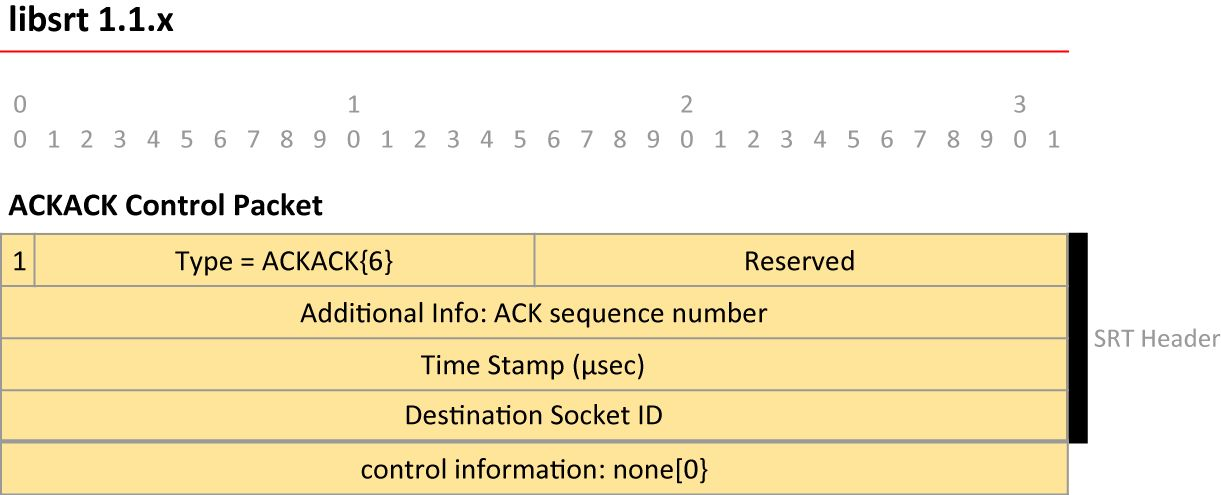
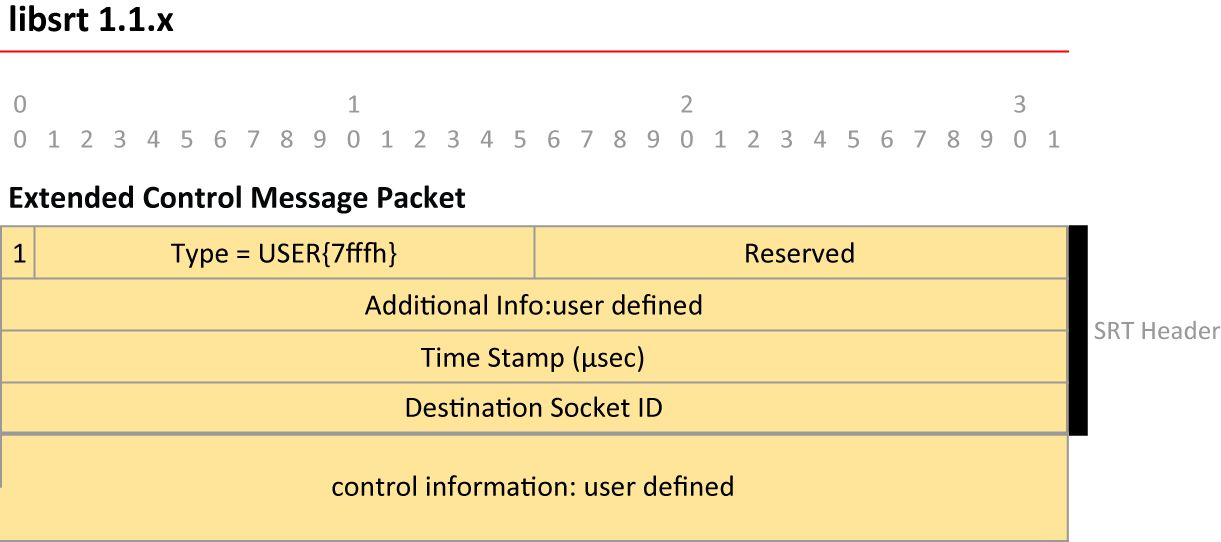
完成数据包一章

diff --git a/PACKET_STRUCTURE.md b/PACKET_STRUCTURE.md
@@ -72,15 +72,73 @@ For Control packets the first two fields are interpreted respectively (using net
     | 0x7FFF | 3 | SRT_KMREQ: Encryption Keying Material Request |
     | 0x7FFF | 4 | SRT_KMRSP: Encryption Keying Material Response |
 
-    The Extended Message mechanism is theoretically open for further extensions. SRT uses some of them for its own purposes. This will be referred to later in the section on the SRT Extended Handshake. 理论上，扩展消息机制对进一步扩展是开放的。SRT 将其中一些用于自己的目的。 稍后将在“SRT 扩展握手”部分中对此进行介绍。
+    The Extended Message mechanism is theoretically open for further extensions. SRT uses some of them for its own purposes. This will be referred to later in the section on the SRT Extended Handshake. 
+    
+    理论上，扩展消息机制对进一步扩展是开放的。SRT 将其中一些用于自己的目的。 稍后将在“SRT 扩展握手”部分中对此进行介绍。
 
 * Word 1:
     * Additional info — used in some control messages as extra space for data. Its interpretation depends on the particular message type. Handshake messages don‘t use it. 其他信息，在某些控制消息中用作额外的数据空间。其解释取决于特定的消息类型。握手消息不使用它。
 
+## Handshake Packets **握手数据包**
 
+Handshake control packets (“packet type” bit = 1) are used to establish a connection between two peers in a point-to-point SRT session. Original versions of SRT relied on handshake extensions to exchange certain parameters immediately after a connection was opened, but as of version 1.3 an integrated mechanism ensures all parameters are exchanged as part of the handshake itself. Refer to the Handshake section later in this document for details.
 
+握手控制数据包（“包类型”位 = 1）用于在点对点 SRT 会话中的两个对等点之间建立连接。SRT 的原始版本依靠握手扩展来在打开连接后立即交换某些参数，但是从版本 1.3 开始，集成机制确保所有参数都作为握手本身的一部分进行交换。有关详细信息，请参阅本文档后面的“握手”部分。
 
+![PACKET_STRUCTURE_3](./Resources/PACKET_STRUCTURE/PACKET_STRUCTURE_3.jpg)
 
+## KM Error Response Packets **关键消息错误响应数据包**
 
+Key Message Error Response control packets (“packet type” bit = 1) are used to exchange error status messages between peers. Refer to the Encryption section later in this document for details.
 
+关键消息错误响应控制数据包（“包类型”位 = 1）用于在同级之间交换错误状态消息。有关详细信息，请参阅本文档后面的加密部分。
 
+![PACKET_STRUCTURE_4](./Resources/PACKET_STRUCTURE/PACKET_STRUCTURE_4.jpg)
+
+## ACK Packets **确认包**
+
+Acknowledgement (ACK) control packets (“packet type” bit = 1) are used to provide data packet delivery status and RTT information. Refer to the SRT Data Transmission and Control section later in this document for details.
+
+确认（ACK）控制包（“包类型”位 = 1）用于提供数据包传递状态和 RTT 信息。有关详细信息，请参阅本文档后面的 SRT 数据传输和控制部分。
+
+![PACKET_STRUCTURE_5](./Resources/PACKET_STRUCTURE/PACKET_STRUCTURE_5.jpg)
+
+## Keep-alive Packets **心跳包**
+
+Keep-alive control packets (“packet type” bit = 1) are exchanged approximately every 10 ms to enable SRT streams to be automatically restored after a connection loss.
+
+心跳控制包（“包类型”位 = 1）大约每 10 毫秒交换一次，以使 SRT 流在连接断开后能够自动恢复。
+
+![PACKET_STRUCTURE_6](./Resources/PACKET_STRUCTURE/PACKET_STRUCTURE_6.jpg)
+
+## NAK Control Packets **否定确认包**
+
+Negative acknowledgement (NAK) control packets (“packet type” bit = 1) are used to signal failed data packet deliveries. Refer to the SRT Data Transmission and Control section later in this document for details.
+
+否定确认（NAK）控制包（“包类型”位 = 1）用于发信号通知失败的数据包传递。有关详细信息，请参阅本文档后面的 SRT 数据传输和控制部分。
+
+![PACKET_STRUCTURE_7](./Resources/PACKET_STRUCTURE/PACKET_STRUCTURE_7.jpg)
+
+## SHUTDOWN Control Packets **关闭控制包**
+
+Shutdown control packets (“packet type” bit = 1) are used to initiate the closing of an SRT connection.
+
+关闭控制包（“包类型”位 = 1）用于关闭进行中的 SRT 连接。
+
+![PACKET_STRUCTURE_8](./Resources/PACKET_STRUCTURE/PACKET_STRUCTURE_8.jpg)
+
+## ACKACK Control Packets **ACK 确认控制包**
+
+ACKACK control packets (“packet type” bit = 1) are used to acknowledge the reception of an ACK, and are instrumental in the ongoing calculation of RTT. Refer to the **SRT Data Transmission and Control** section later in this document for details.
+
+ACK 确认控制包（“包类型”位 = 1）用于确认 ACK 的接收，并在正在进行的 RTT 计算中发挥作用。有关详细信息，请参阅本文档后面的 **SRT 数据传输和控制** 部分。
+
+![PACKET_STRUCTURE_9](./Resources/PACKET_STRUCTURE/PACKET_STRUCTURE_9.jpg)
+
+## Extended Control Message Packets
+
+Extended Control Message packets (“packet type” bit = 1) are repurposed from the original UDT User control packets. They are used in the SRT extended handshake, either through separate messages, or inside the handshake. Note that they are not intended to be used as user extensions.
+
+扩展控制消息包（“包类型”位 = 1）重用了原始 UDT 用户控制数据包。通过单独的消息或在握手中将它们用于 SRT 扩展握手中。请注意，它们不打算用作用户扩展。
+
+![PACKET_STRUCTURE_10](./Resources/PACKET_STRUCTURE/PACKET_STRUCTURE_10.jpg)
